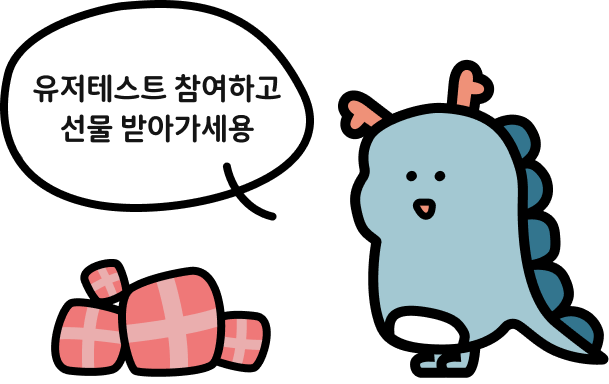
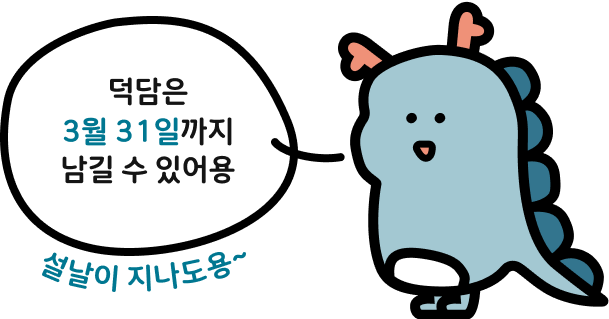
Feat : 마이페이지 수정 및 모달 변경

diff --git a/src/app/(my-page)/account/page.tsx b/src/app/(my-page)/account/page.tsx
@@ -18,6 +18,7 @@ import {
 } from '../../../../public/images/icons'
 import Image from 'next/image'
 import { useRouter } from 'next/navigation'
+import { myPageBottom } from '../../../../public/images/avatar'
 
 //? React Query v5에서 query 함수 호출 시 새로운 형식을 사용해야된다
 //? query 함수 호출시 Object형태만 허용된다. exuseQuery({queryKey: ['myPageInfo'],queryFn: getMyPage,})
@@ -145,18 +146,18 @@ function MyPage() {
                   height={48}
                   className="m-auto mb-8 rounded-full"
                 />
-                <p className="font-sm">받은 편지함</p>
+                <p className="font-sm">받은 고명</p>
               </Link>
             </div>
           ) : null}
           <div className="flex flex-col gap-16">
             <Link
               className="flex items-center gap-6"
-              href={'https://forms.gle/oavk3yJND7A8JrMh7'}
+              href={'https://forms.gle/RfazdTeYTUCQoz9KA'}
               target="_blank"
             >
               <Image src={iconUserTest} alt="mypage enter btn" width={20} height={20} />
-              <p className="font-base">유저테스트 참여하기</p>
+              <p className="font-base">피드백 남기기</p>
             </Link>
             <Link
               className="flex items-center gap-6"
@@ -259,6 +260,11 @@ function MyPage() {
           </div>
         </div>
       )}
+      <div className="absolute bottom-20 right-20 flex justify-end">
+        <div className="w-[80%]">
+          <Image src={myPageBottom} alt="마이페이지 캐릭터 이미지" />
+        </div>
+      </div>
     </>
   )
 }

diff --git a/src/components/modal/UserTestModal.tsx b/src/components/modal/UserTestModal.tsx
@@ -24,13 +24,6 @@ function UserTestModal({ cancelBtnFn, confirmBtnFn }: UserTestProps) {
           <div className="mt-30 p-20">
             <Image src={userTest} alt="유저테스트 캐릭터" loading="eager" />
           </div>
-          <Link
-            href={'https://forms.gle/oavk3yJND7A8JrMh7'}
-            target="_blank"
-            className="flex-center h-60 w-full rounded-md bg-pr-500 text-lg text-white"
-          >
-            <p>유저테스트 참여하기</p>
-          </Link>
           <div className="flex-center mt-12">
             <button className="w-100 text-pr-400" onClick={confirmBtnFn}>
               다시 보지 않기

diff --git a/public/images/avatar/index.ts b/public/images/avatar/index.ts
@@ -2,5 +2,6 @@ import cryingAvatars from './cryingAvatars.svg'
 import speechBubble from './speechBubble.png'
 import userTest from './userTest.png'
 import characterSet from './characterSet.svg'
+import myPageBottom from './myPageBottom.png'
 
-export { cryingAvatars, speechBubble, userTest, characterSet }
+export { cryingAvatars, speechBubble, userTest, characterSet, myPageBottom }
